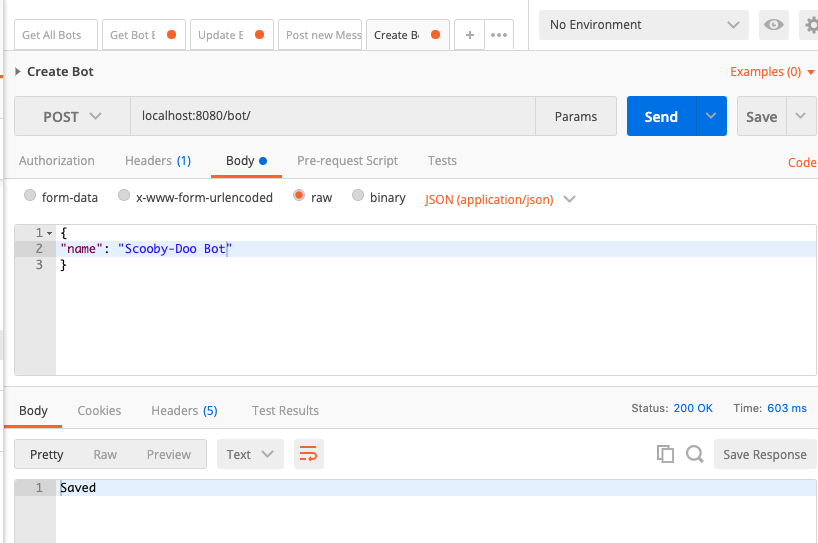
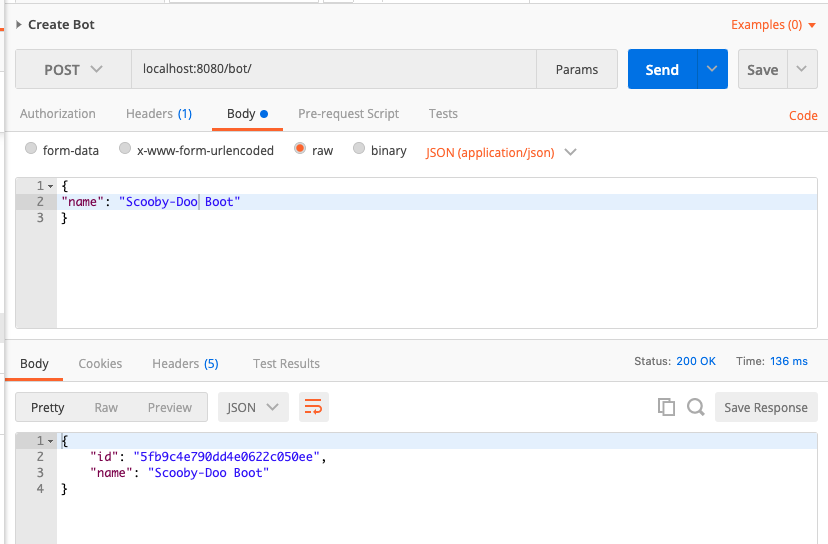
adjust apis and readme

diff --git a/src/main/java/com/johnwick182/chatbotdemo/resource/BotController.java b/src/main/java/com/johnwick182/chatbotdemo/resource/BotController.java
@@ -2,9 +2,13 @@ package com.johnwick182.chatbotdemo.resource;
 
 import com.johnwick182.chatbotdemo.model.Bot;
 import com.johnwick182.chatbotdemo.service.BotService;
+import org.apache.coyote.Response;
 import org.springframework.beans.factory.annotation.Autowired;
+import org.springframework.http.HttpStatus;
+import org.springframework.http.ResponseEntity;
 import org.springframework.web.bind.annotation.*;
 
+import javax.swing.text.html.Option;
 import java.util.List;
 import java.util.Optional;
 
@@ -16,41 +20,42 @@ public class BotController {
     private BotService botService;
 
     @PostMapping(path="/")
-    public @ResponseBody String addBot(@RequestBody Bot bot) {
-        botService.save(bot);
-        return "Saved";
+    public ResponseEntity<Bot> addBot(@RequestBody Bot bot) {
+        return ResponseEntity.ok(botService.save(bot));
     }
 
     @GetMapping("/all")
     public List<Bot> getBots() {
-        return (List<Bot>) botService.findAll();
+        return botService.findAll();
     }
 
     @RequestMapping(value="/{id}", method=RequestMethod.GET)
-    public Optional<Bot>  getById(@PathVariable(value="id") String id) {
-        return botService.findById(id);
+    public ResponseEntity<Optional<Bot>> getById(@PathVariable(value="id") String id) {
+        Optional<Bot> bot = botService.findById(id);
+        if (bot.isPresent()) {
+            return ResponseEntity.ok(bot);
+        } else {
+            return ResponseEntity.notFound().build();
+        }
     }
 
     @RequestMapping(value="/{id}", method=RequestMethod.DELETE)
-    public String deleteBot(@PathVariable String id){
+    public ResponseEntity<Bot> deleteBot(@PathVariable String id){
         if (botService.findById(id).isPresent()){
             botService.deleteById(id);
-            return "Deleted";
+            return ResponseEntity.noContent().build();
         } else {
-            return "Not Found";
+            return ResponseEntity.notFound().build();
         }
     }
 
     @PutMapping(path="/")
-    public @ResponseBody String updateBot(@RequestBody Bot bot) {
+    public ResponseEntity<Bot> updateBot(@RequestBody Bot bot) {
         if (botService.findById(bot.getId()).isPresent()) {
-            botService.save(bot);
-            return "Bot updated";
+            return ResponseEntity.ok(botService.save(bot));
         } else {
-            return "Not found";
+            return ResponseEntity.notFound().build();
         }
     }
-
-
 
 }

diff --git a/src/main/java/com/johnwick182/chatbotdemo/resource/MessageController.java b/src/main/java/com/johnwick182/chatbotdemo/resource/MessageController.java
@@ -18,9 +18,8 @@ public class MessageController {
     private MessageService messageService;
 
     @PostMapping(path="/")
-    public @ResponseBody String addMessage(@RequestBody Message message) {
-        messageService.save(message);
-        return "Saved";
+    public ResponseEntity<Message> addMessage(@RequestBody Message message) {
+        return ResponseEntity.ok(messageService.save(message));
     }
 
     @RequestMapping(value="/{id}", method=RequestMethod.GET)
@@ -30,7 +29,7 @@ public class MessageController {
     }
 
     @GetMapping(path="/conversation/{id}")
-    public List<Message> findByConversation(@PathVariable(value="id") String id) {
-        return messageService.findMessagesByConversation(id);
+    public ResponseEntity<List<Message>> findByConversation(@PathVariable(value="id") String id) {
+        return ResponseEntity.ok(messageService.findMessagesByConversation(id));
     }
 }

diff --git a/src/main/java/com/johnwick182/chatbotdemo/service/MessageService.java b/src/main/java/com/johnwick182/chatbotdemo/service/MessageService.java
@@ -14,8 +14,8 @@ public class MessageService {
     @Autowired
     MessageRepository messageRepository;
 
-    public void save(Message message) {
-        messageRepository.save(message);
+    public Message save(Message message) {
+        return messageRepository.save(message);
     }
 
     public Optional<Message> findById(String id) {

diff --git a/src/main/java/com/johnwick182/chatbotdemo/service/BotService.java b/src/main/java/com/johnwick182/chatbotdemo/service/BotService.java
@@ -14,8 +14,8 @@ public class BotService {
     @Autowired
     private BotRepository botRepository;
 
-    public void save(Bot bot) {
-        botRepository.save(bot);
+    public Bot save(Bot bot) {
+        return botRepository.save(bot);
     }
 
     public List<Bot> findAll() {
